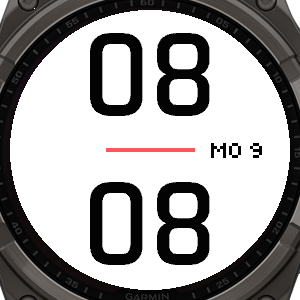
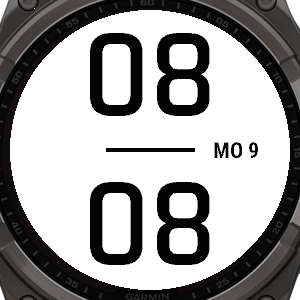
Split Time 1.1: black and white only, system font for date and calendar
- Date and calendar use Roboto Condensed instead of the pixel glyphs
- No accent colour: style A line and style B minutes follow the text colour
- Today in the calendar is marked with a grey box behind the number
- Updated screenshots, calendar screenshot added

Changed region(s): [[0.69, 0.48, 0.87, 0.54], [0.36, 0.48, 0.66, 0.51]]

diff --git a/README.md b/README.md
@@ -1,6 +1,6 @@
 # Split Time
 
-Esfera para relojes Garmin con pantalla MIP, con la hora en cifras grandes y un color destacado `#ff2d6f`. Tiene dos estilos, y la fecha usa los glifos pixelados de [Pixel Time](https://github.com/joxerg/PixelTime).
+Esfera para relojes Garmin con pantalla MIP, con la hora en cifras grandes. Tiene dos estilos, vertical y horizontal, y todo va en blanco y negro. Basada en [Pixel Time](https://github.com/joxerg/PixelTime).
 
 Diseñada y probada para **tactix 8 Solar 51 mm** / **fēnix 8 Solar 51 mm** (ID de Connect IQ: `fenix8solar51mm`).
 
@@ -11,13 +11,15 @@ Diseñada y probada para **tactix 8 Solar 51 mm** / **fēnix 8 Solar 51 mm** (ID
 
 ## Funciones
 
-- **Estilo A - Vertical**: horas arriba y minutos abajo, separados por una línea `#ff2d6f`, con la fecha en el cuadrante derecho.
-- **Estilo B - Horizontal**: `9 05` en una línea, con los minutos en `#ff2d6f` y la fecha debajo.
+- **Estilo A - Vertical**: horas arriba y minutos abajo, separados por una línea, con la fecha en el cuadrante derecho.
+- **Estilo B - Horizontal**: `9 05` en una línea, con la fecha debajo.
 - **Cifras lo más grandes posible**: la esfera calcula el tamaño de la fuente Bionic del sistema para que la hora más ancha quepa dejando unos 10 px hasta el borde circular. El tamaño no cambia con la hora.
-- **Color destacado** `#ff2d6f`. La pantalla MIP muestra 64 colores, así que el reloj usa el rosa-rojo más cercano.
-- **Fecha pixelada**: `MO 12`, `TU 3`, `WE`, `TH`, `FR`, `SA`, `SU`.
-- **Fondo negro o blanco**, con los colores invertidos. El color destacado se mantiene.
-- **Calendario mensual**: mantén pulsada la pantalla para abrirlo. Con el calendario abierto, una pulsación larga a la izquierda muestra el mes anterior, a la derecha el siguiente y en el centro vuelve a la hora. El día actual aparece subrayado con el color de la línea.
+- **Fecha** en Roboto Condensed, la fuente del sistema: `MO 12`, `TU 3`, `WE`, `TH`, `FR`, `SA`, `SU`.
+- **Fondo negro o blanco**, con los colores invertidos.
+- **Calendario mensual**: mantén pulsada la pantalla para abrirlo. Con el calendario abierto, una pulsación larga a la izquierda muestra el mes anterior, a la derecha el siguiente y en el centro vuelve a la hora. El día actual aparece marcado en gris.
+
+![Calendario en los estilos A y B](docs/calendario.png)
+
 - Respeta el formato de 12/24 h del reloj. En el estilo B la hora va siempre sin cero delante, como en la referencia.
 - Bajo consumo: se refresca una vez por minuto y no usa imágenes.
 
@@ -48,7 +50,7 @@ Necesitas el [Connect IQ SDK](https://developer.garmin.com/connect-iq/sdk/) con 
 monkeyc -f monkey.jungle -d fenix8solar51mm -o SplitTime.prg -y /ruta/a/developer_key
 ```
 
-El margen con el borde, los huecos, el color y el bloque de la fecha se ajustan con las constantes del principio de [`source/SplitTimeView.mc`](source/SplitTimeView.mc).
+El margen con el borde, los huecos y los tamaños de la fecha y el calendario se ajustan con las constantes del principio de [`source/SplitTimeView.mc`](source/SplitTimeView.mc).
 
 ## Licencia
 
